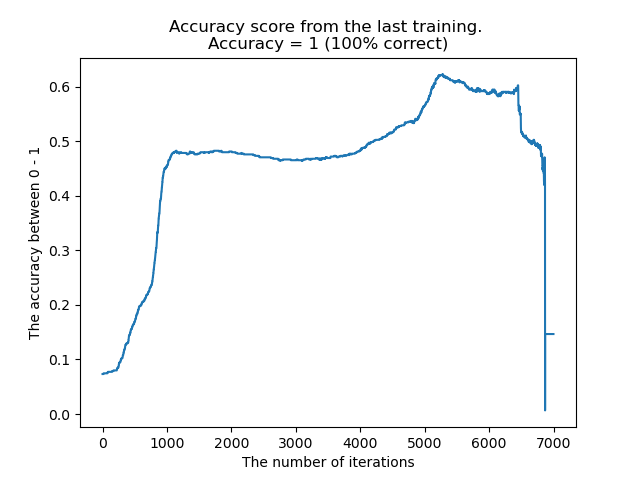
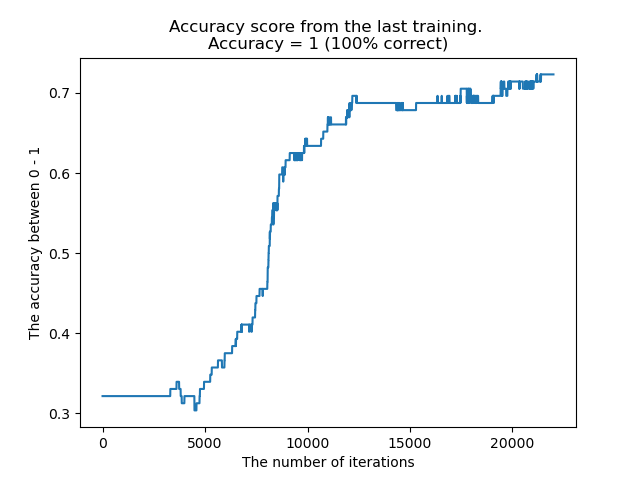
small bush

diff --git a/project3/code/test_project_3.py b/project3/code/test_project_3.py
@@ -43,39 +43,33 @@ an accuracy score (of both training and test data). We have also provided the
 opportunity to look at the accuracy score over the training time (iterations of the
 SGD-algorithm)
 """
-test1 = True
+test1 = False
 if test1:
     print('>> RUNNING TEST 1:')
     # Loading the training and testing dataset
-    n_components = 2
-    m_observations = 1600
-
-    X_train, X_test, y_train, y_test = helper.load_dry_beans_data(2)
-
-    # X_train, X_test, y_train, y_test = helper.load_cancer_data(
-    #     n_components)
+    X_train, X_test, y_train, y_test = helper.load_iris_data(3)
 
     # Setting the architecture of the Neural Network
-    node_list = [8]
+    node_list = [12]
 
     # Initializing the Neural Network
     FFNN = Neural_Network(
-        no_input_nodes=n_components,
-        no_output_nodes=7,
+        no_input_nodes=4,
+        no_output_nodes=3,
         node_list=node_list
     )
 
     # Setting the preffered Stochastic Gradient Descent parameters
     FFNN.set_SGD_values(
-        n_epochs=1000,
-        batch_size=100,
+        n_epochs=2000,
+        batch_size=5,
         gamma=0.1,
-        eta=5e-5,
+        eta=1e-2,
         lmbda=0)
 
     # Setting the preffered cost- and activation functions
     FFNN.set_cost_function(logistic_cost_NN_multi)
-    FFNN.set_activation_function_hidden_layers('RELU')
+    FFNN.set_activation_function_hidden_layers('sigmoid')
     FFNN.set_activation_function_output_layer('softmax')
 
     FFNN.train_model(X_train, y_train, keep_cost_values=True,
@@ -96,15 +90,12 @@ if test1:
 
     # print(y_pred_train)
 
-    # print(helper.accuracy_score(y_pred_train, y_train.reshape(-1, 1)))
-    # print(helper.accuracy_score(y_test, y_pred_test))
+    print(helper.accuracy_score(y_pred_train, y_train))
+    print(helper.accuracy_score(y_test, y_pred_test))
 
     # Change the activation function to predict 0 or 1's.
     # FFNN.set_activation_function_output_layer('sigmoid_classification')
-    # print(
-    #     f'Accuracy_train = {helper.accuracy_score(FFNN.feed_forward(X_train),  y_train)}')
-    # print(
-    #     f'Accuracy_test = {helper.accuracy_score(FFNN.feed_forward(X_test),  y_test)}')
+
 
 """
 TEST 2:
@@ -307,6 +298,7 @@ if test3:
 
 """
 TEST 4:
+# TODO: change underneath
 DATASET: DIABETES DATA (classification case)
 METHOD: Neural Network
 
@@ -318,7 +310,7 @@ test4 = False
 if test4:
     print('>> RUNNING TEST 4:')
     # Loading the training and testing dataset
-    n_components = 10
+    n_components = 3
     X_train, X_test, y_train, y_test = helper.load_diabetes_data(
         n_components, 200)
 
@@ -339,11 +331,11 @@ if test4:
     FFNN.set_activation_function_hidden_layers('sigmoid')
 
     # Change the activation function to predict 0 or 1's.
-    learning_rates = [1e-4, 5e-5, 1e-5, 5e-6, 1e-6]
+    max_depths = [1e-4, 5e-5, 1e-5, 5e-6, 1e-6]
     lmbda_values = np.logspace(-5, -7, 3)
 
-    train_accuracy_score = np.zeros((len(learning_rates), len(lmbda_values)))
-    test_accuracy_score = np.zeros((len(learning_rates), len(lmbda_values)))
+    train_accuracy_score = np.zeros((len(max_depths), len(lmbda_values)))
+    test_accuracy_score = np.zeros((len(max_depths), len(lmbda_values)))
 
     n_epochs = 150
     batch_size = 10
@@ -355,7 +347,7 @@ if test4:
         gamma=gamma)
 
     iter = 0
-    for i, eta in enumerate(learning_rates):
+    for i, eta in enumerate(max_depths):
         for j, lmbda in enumerate(lmbda_values):
             print(eta, lmbda)
             # Reinitializing the weights, biases and activation function
@@ -385,13 +377,13 @@ if test4:
 
             iter += 1
             print(
-                f'Progress: {iter:2.0f}/{len(learning_rates) * len(lmbda_values)}')
+                f'Progress: {iter:2.0f}/{len(max_depths) * len(lmbda_values)}')
 
     # Creating the seaborn_plot
     helper.seaborn_plot_lmbda_learning(
         score=train_accuracy_score,
         x_tics=lmbda_values,
-        y_tics=learning_rates,
+        y_tics=max_depths,
         score_name='Training Accuracy',
         save_name=f'plots/test6/test6_nepochs_{n_epochs}_M_{batch_size}_gamma_{gamma}_features_{n_components}_hiddennodes_{no_hidden_nodes}_hiddenlayer_{no_hidden_layers}_actOUT_{output_activation}_training_14.png'
     )
@@ -399,7 +391,7 @@ if test4:
     helper.seaborn_plot_lmbda_learning(
         score=test_accuracy_score,
         x_tics=lmbda_values,
-        y_tics=learning_rates,
+        y_tics=max_depths,
         score_name='Test Accuracy',
         save_name=f'plots/test6/test6_nepochs_{n_epochs}_M_{batch_size}_gamma_{gamma}_features_{n_components}_hiddennodes_{no_hidden_nodes}_hiddenlayer_{no_hidden_layers}_actOUT_{output_activation}_test_14.png'
     )
@@ -417,14 +409,13 @@ test5 = False
 if test5:
     print('>> RUNNING TEST 5:')
     # Loading the training and testing dataset
-    n_components = 21
-    m_observations = 300000
-    X_train, X_test, y_train, y_test = helper.load_diabetes_data(
-        n_components, m_observations)
+    n_components = 3
+    X_train, X_test, y_train, y_test = helper.load_iris_data(
+        n_components, 2000)
 
     # Function to perform training with Entropy
     clf = DecisionTreeClassifier(
-        criterion='entropy', max_depth=14)
+        criterion='entropy', max_depth=5)
 
     # Fit the data to the model we have created
     clf.fit(X_train, y_train)
@@ -452,42 +443,49 @@ Training and test data vs. complexity of the tree
 Use scikitlearn's decision tree, testing
 """
 
-test6 = False
+test6 = True
 if test6:
     print('>> RUNNING TEST 6:')
     # Loading the training and testing dataset
     n_components = 2
-    m_observations = 300000
-    X_train, X_test, y_train, y_test = helper.load_diabetes_data_without_PCA(
-        n_components, m_observations)
+    X_train, X_test, y_train, y_test = helper.load_iris_data(
+        n_components)
 
-    learning_rates = np.arange(1, 14, 1)
+    max_depths = np.arange(1, 14, 1)
 
-    train_accuracy_score = np.zeros(len(learning_rates))
-    test_accuracy_score = np.zeros(len(learning_rates))
+    train_accuracy_score = []
+    test_accuracy_score = []
 
+    last_max_depth = 0
     iter = 0
-    for i, max_depth in enumerate(learning_rates):
+    for i, max_depth in enumerate(max_depths):
         clf = DecisionTreeClassifier(
             criterion='entropy', max_depth=max_depth)
 
         # Fit the data to the model we have created
         clf.fit(X_train, y_train)
+        max_depth = clf.tree_.max_depth
+
+        if last_max_depth == max_depth:
+            break
+        else:
+            last_max_depth = max_depth
 
         # Make predictions
-        y_pred_test = clf.predict(X_train)
+        y_pred_train = clf.predict(X_train)
         y_pred_test = clf.predict(X_test)
 
-        train_accuracy_score[i] = helper.accuracy_score(y_pred_test, y_train)
-        test_accuracy_score[i] = helper.accuracy_score(y_pred_test, y_test)
+        train_accuracy_score.append(
+            helper.accuracy_score(y_pred_train, y_train))
+        test_accuracy_score.append(helper.accuracy_score(y_pred_test, y_test))
 
         iter += 1
         print(
-            f'Progress: {iter:2.0f}/{len(learning_rates)}')
+            f'Progress: {iter:2.0f}/{len(max_depths)}')
 
-    plt.plot(learning_rates,
+    plt.plot(range(len(train_accuracy_score)),
              train_accuracy_score, label="Train accuracy score ")
-    plt.plot(learning_rates,
+    plt.plot(range(len(test_accuracy_score)),
              test_accuracy_score, label="Test accuracy score ")
 
     plt.xlabel("Model Complexity (max depth of decision tree)")
@@ -549,13 +547,13 @@ if test8:
     X_train, X_test, y_train, y_test = helper.load_diabetes_data_without_PCA(
         n_components, m_observations)
 
-    learning_rates = np.arange(1, 40, 1)
+    max_depths = np.arange(1, 40, 1)
 
-    train_accuracy_score = np.zeros(len(learning_rates))
-    test_accuracy_score = np.zeros(len(learning_rates))
+    train_accuracy_score = np.zeros(len(max_depths))
+    test_accuracy_score = np.zeros(len(max_depths))
 
     iter = 0
-    for i, max_depth in enumerate(learning_rates):
+    for i, max_depth in enumerate(max_depths):
         clf = RandomForestClassifier(
             max_depth=max_depth)
 
@@ -571,11 +569,11 @@ if test8:
 
         iter += 1
         print(
-            f'Progress: {iter:2.0f}/{len(learning_rates)}')
+            f'Progress: {iter:2.0f}/{len(max_depths)}')
 
-    plt.plot(learning_rates,
+    plt.plot(max_depths,
              train_accuracy_score, label="Train accuracy score ")
-    plt.plot(learning_rates,
+    plt.plot(max_depths,
              test_accuracy_score, label="Test accuracy score ")
 
     plt.xlabel("Model Complexity (max depth of random forest)")
@@ -638,13 +636,13 @@ if test10:
     X_train, X_test, y_train, y_test = helper.load_diabetes_data_without_PCA(
         n_components, m_observations)
 
-    learning_rates = np.arange(1, 21, 1)
+    max_depths = np.arange(1, 21, 1)
 
-    train_accuracy_score = np.zeros(len(learning_rates))
-    test_accuracy_score = np.zeros(len(learning_rates))
+    train_accuracy_score = np.zeros(len(max_depths))
+    test_accuracy_score = np.zeros(len(max_depths))
 
     iter = 0
-    for i, max_depth in enumerate(learning_rates):
+    for i, max_depth in enumerate(max_depths):
         clf = GradientBoostingClassifier(
             n_estimators=3, learning_rate=0.1, max_depth=max_depth, random_state=100)
 
@@ -660,11 +658,11 @@ if test10:
 
         iter += 1
         print(
-            f'Progress: {iter:2.0f}/{len(learning_rates)}')
+            f'Progress: {iter:2.0f}/{len(max_depths)}')
 
-    plt.plot(learning_rates,
+    plt.plot(max_depths,
              train_accuracy_score, label="Train accuracy score ")
-    plt.plot(learning_rates,
+    plt.plot(max_depths,
              test_accuracy_score, label="Test accuracy score ")
 
     plt.xlabel("Model Complexity (max depth of random forest)")
@@ -728,10 +726,3 @@ if test11:
 
     print(f'Training accuracy: {helper.accuracy_score(y_train, y_pred_train)}')
     print(f'Testing accuracy: {helper.accuracy_score(y_test, y_pred_test)}')
-
-    # for i in range(len(softi[:, 2])):
-    #     if softi[i, ] > 0.3:
-    #         print('-------')
-    #         print(softi[i])
-    #         print(y_train[i])
-    #         print('--------')

diff --git a/project3/code/helper.py b/project3/code/helper.py
@@ -9,7 +9,7 @@ from sklearn.model_selection import train_test_split
 from sklearn.utils import resample
 from sklearn.metrics import accuracy_score
 from sklearn.decomposition import PCA
-from sklearn.datasets import load_breast_cancer
+from sklearn.datasets import load_breast_cancer, load_iris
 
 import numpy as np
 import seaborn as sns
@@ -419,6 +419,46 @@ def load_cancer_data(n):
     return X_cancer_train, X_cancer_test, y_cancer_train, y_cancer_test
 
     print(pca.explained_variance_ratio_)
+
+
+def load_iris_data(n, show_explained_ratio=False):
+    """
+    Loading the cancer_data from scikit-learn. Selecting the
+    features with the highest explained variance ratio (the first
+    # n) and returning those
+
+    :param n (int):
+        amount of components we want to return
+
+    :return tuple(np.ndarray):
+        - Input data, training
+        - Input data, testing
+        - Target data, training
+        - Target data, testing
+    """
+
+    # Loading cancer data
+    cancer = load_iris()
+    # Parameter labels (if you want, not used)
+
+    # TODO: shuffle the data
+    X_input = cancer.data
+    y_target = cancer.target    # 0 for benign and 1 for malignant
+    y_target = y_target.reshape(-1, 1)
+
+    # Selecting the n first components w.r.t. the PCA
+    pca = PCA(n_components=n)
+    X_nD = pca.fit_transform(X_input)
+
+    if show_explained_ratio:
+        print(pca.explained_variance_ratio_)
+
+    X_nD = X_nD/(X_nD.max(axis=0))
+
+    X_cancer_train, X_cancer_test, y_cancer_train, y_cancer_test = train_test_split(
+        X_nD, y_target)
+
+    return X_cancer_train, X_cancer_test, y_cancer_train, y_cancer_test
 
 
 def load_diabetes_data(n_components, m_observations=1000, show_explained_ratio=False):
